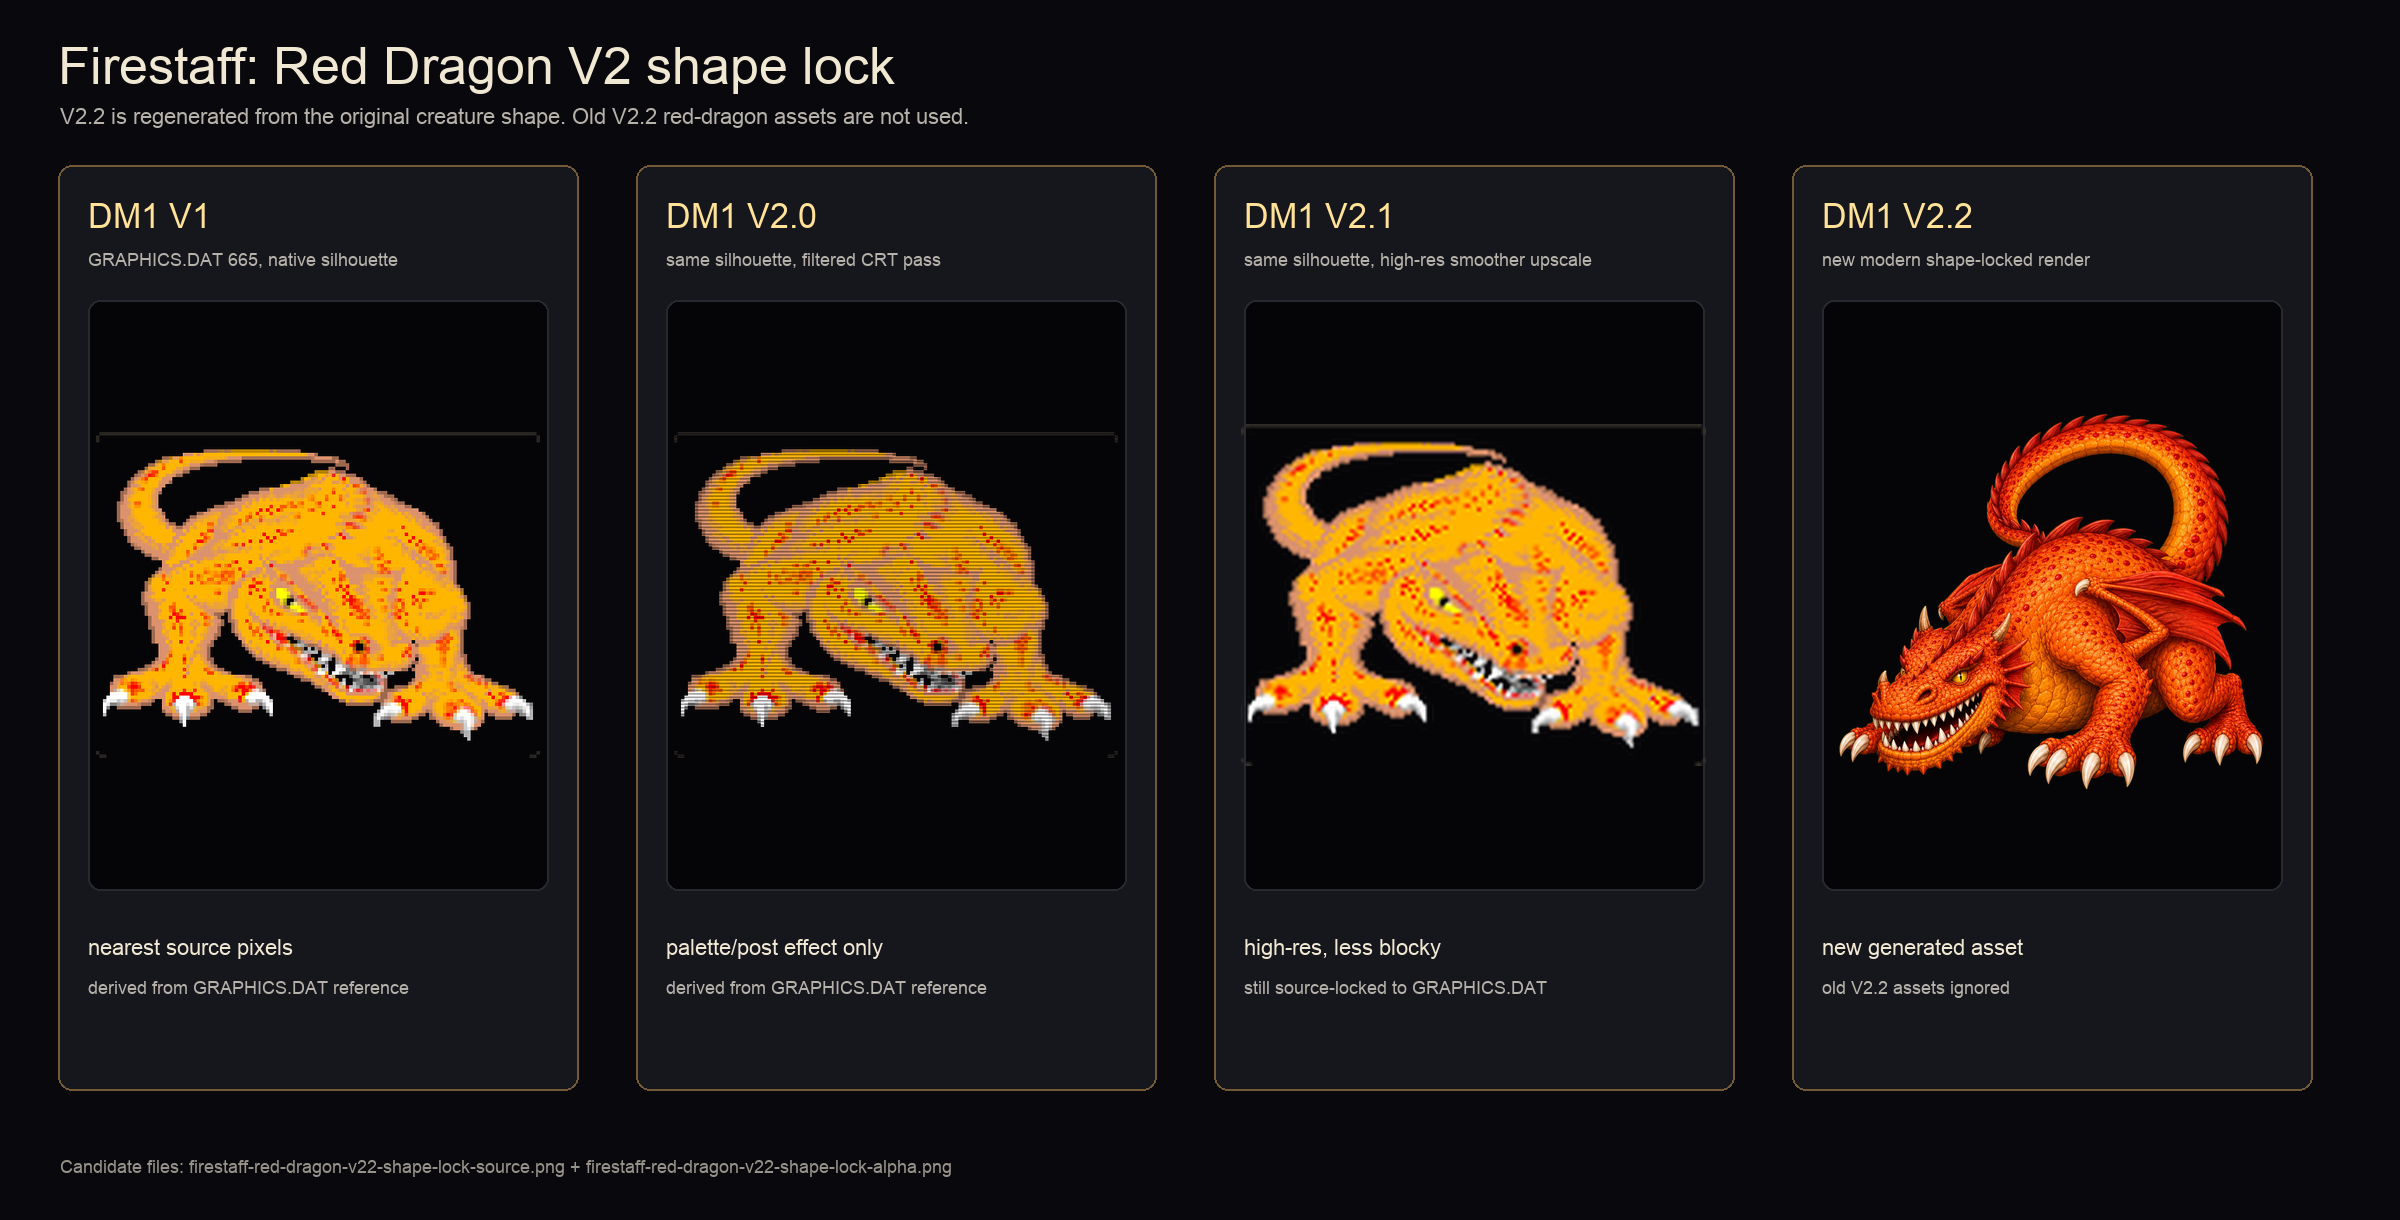
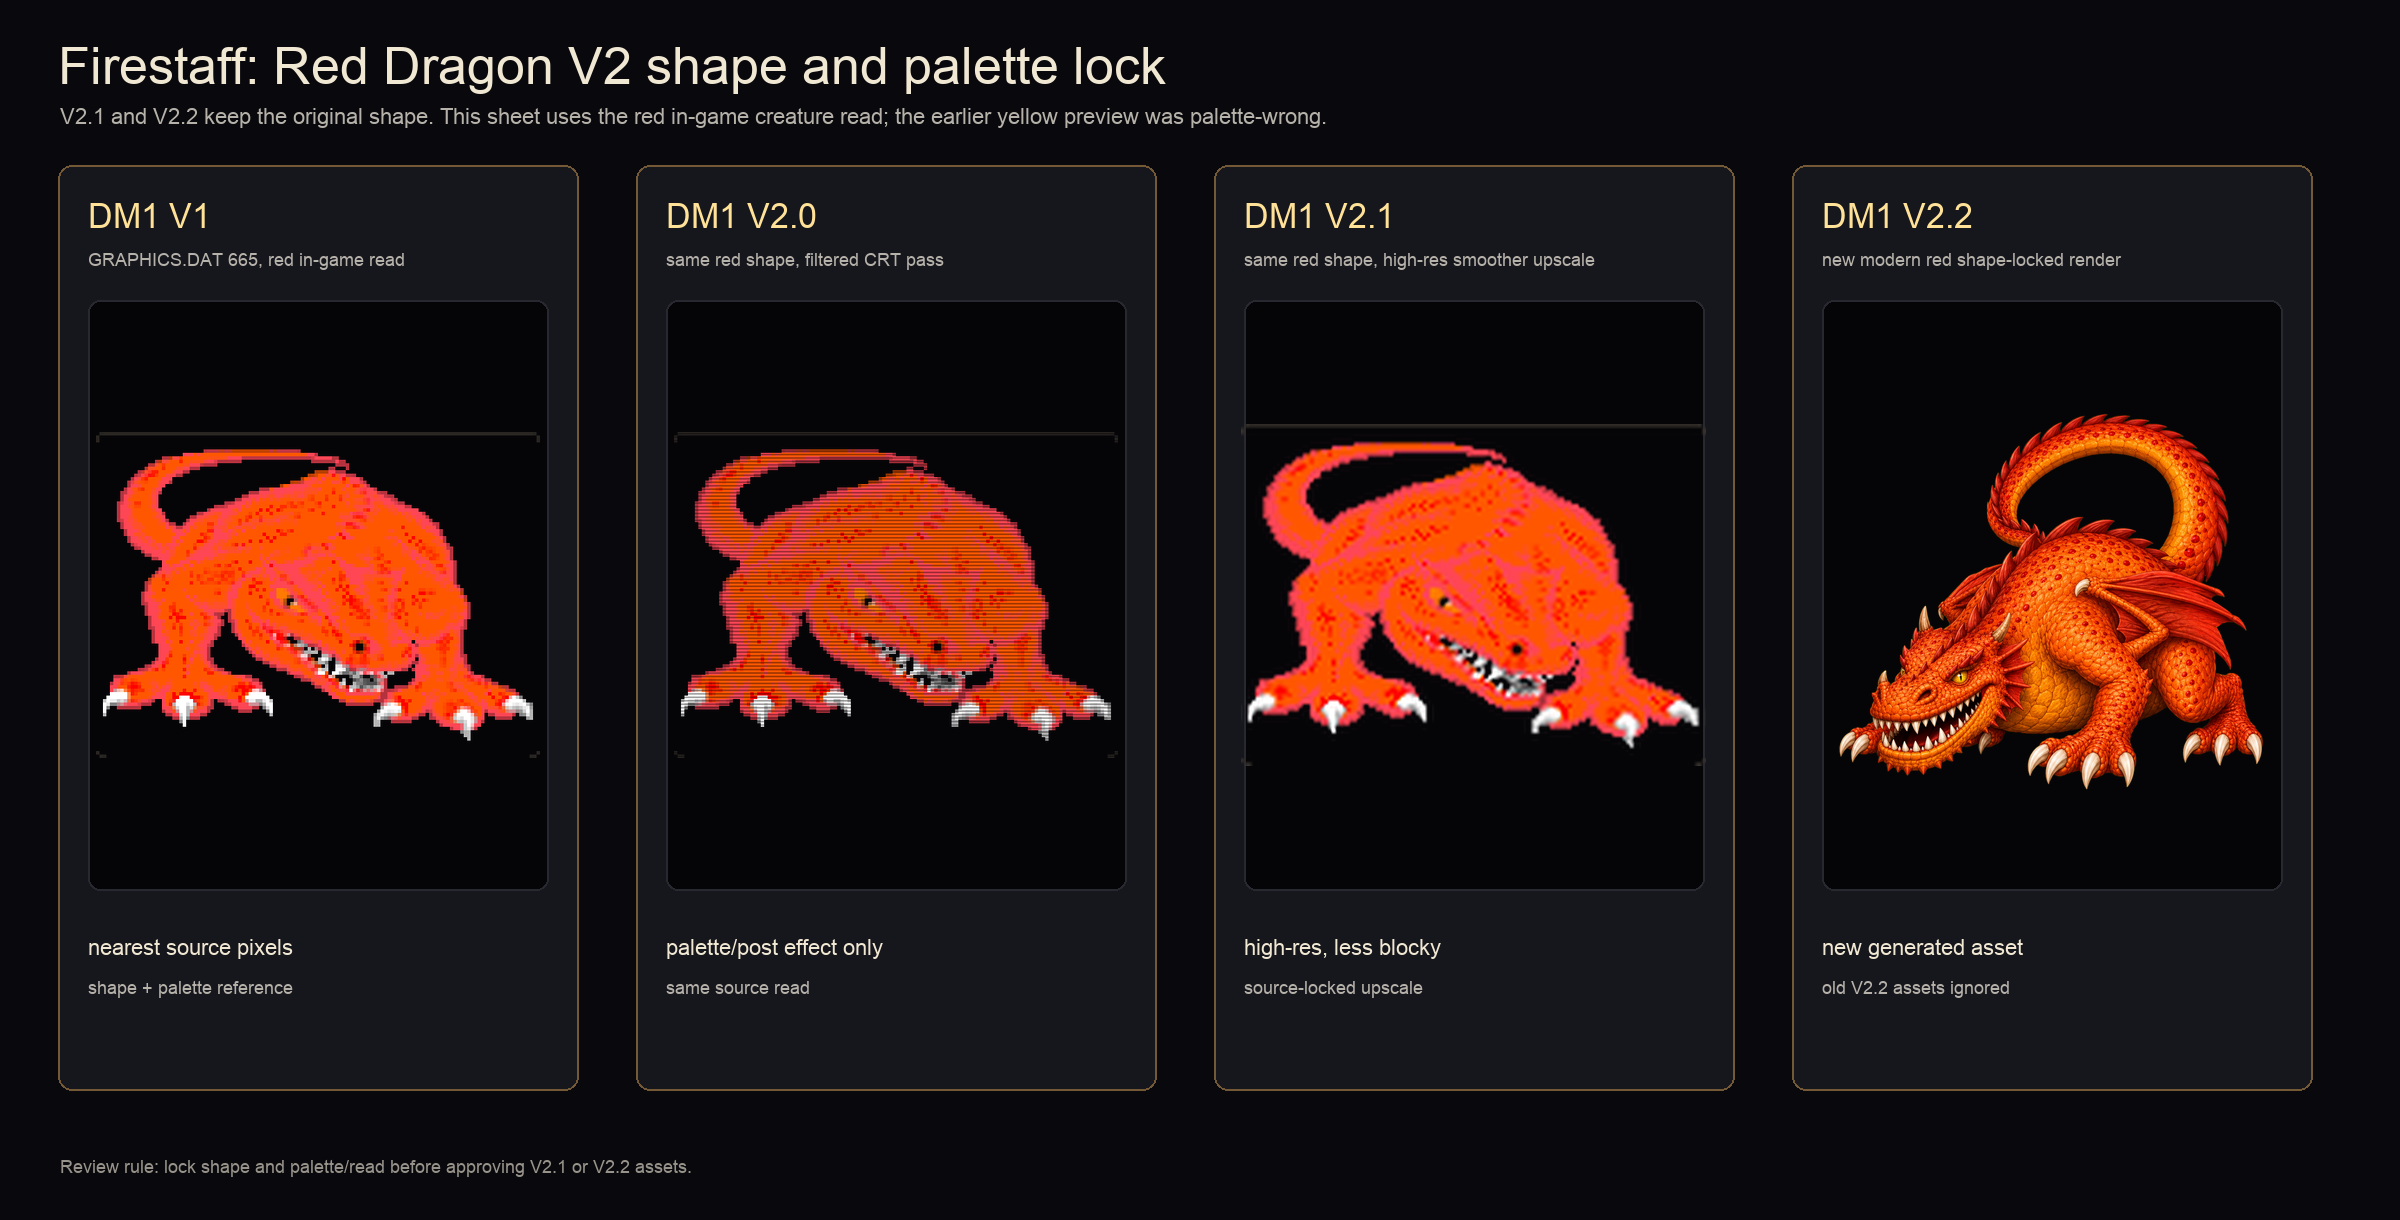
docs: add V2 asset palette lock

diff --git a/assets-v2/creatures/wave1/CREATURE_PIPELINE.md b/assets-v2/creatures/wave1/CREATURE_PIPELINE.md
@@ -13,6 +13,7 @@ It exists to let creature-family experiments move forward without touching the a
    - V2.1 should be a high-resolution, less-pixelated upscale of that source shape.
    - V2.2 should be a modern high-resolution redraw of that same source shape, not a replacement design.
    - Do not reuse old V2.2 creature assets when they drift from the source shape. Generate or paint a new candidate instead.
+   - Lock the in-game palette/read at the same time as the shape. If a preview renders a red creature yellow because of palette mismatch, the preview is not acceptable source evidence.
 3. Isolate the subject with either:
    - a supplied manual mask, or
    - the generator's heuristic background-removal pass.
@@ -86,9 +87,9 @@ That means creature polish can increase resolution and paint fidelity, but it mu
 - restrained painted surfaces
 - limited color separation
 - some hard-edge chunkiness instead of glossy fantasy-poster rendering
-- side-by-side shape parity across V1, V2.0, V2.1, and V2.2 before approval
+- side-by-side shape and palette/read parity across V1, V2.0, V2.1, and V2.2 before approval
 
-The red-dragon shape-lock candidate under `red-dragon-family/candidates/20260528-shape-lock/` is the current example pattern: the V2.2 pass was regenerated from the original crouched red-dragon silhouette, while V2.1 stays a smoother high-resolution source-preserving upscale.
+The red-dragon shape-lock candidate under `red-dragon-family/candidates/20260528-shape-lock/` is the current example pattern: the V2.2 pass was regenerated from the original crouched red-dragon silhouette, while V2.1 stays a smoother high-resolution source-preserving upscale. The comparison sheet also documents the palette correction: the red dragon must read red in-game, so the earlier yellow-looking preview was rejected as palette-wrong evidence.
 
 ## Boundaries
 

diff --git a/docs/v2/V2_ALL_ASSETS_STYLE_GUIDE.md b/docs/v2/V2_ALL_ASSETS_STYLE_GUIDE.md
@@ -41,6 +41,11 @@ It does not change active V1 parity work.
    - Do not reuse old V2.2 assets that drift away from the source form. Treat them as rejected references, not production inputs.
    - Review V1, V2.0, V2.1, and V2.2 side by side at the same perceived scale before approving an asset.
 
+8. **Palette/read lock**
+   - The source comparison must use the correct in-game palette/read for the selected game and asset. A shape-correct preview with wrong colors is still not approval evidence.
+   - If an extraction, viewer, or mock comparison displays the palette incorrectly, label it as invalid or regenerate the comparison before using it as an art brief.
+   - V2.1 and V2.2 may increase color fidelity, but they must preserve the gameplay color identity: a red creature must still read red, a poison/acid effect must still read poison/acid, and UI state colors must keep their original role.
+
 ## Cross-class material language
 
 - Stone, bronze, wood, iron, bone, parchment, cloth, slime, and rune-light should read as tactile but not glossy.

diff --git a/assets-v2/ALL_ASSETS_V2_COVERAGE.md b/assets-v2/ALL_ASSETS_V2_COVERAGE.md
@@ -27,6 +27,7 @@ All graphical asset classes now use the same approval pattern:
 - lock the original/source silhouette, pose, crop role, scale, and gameplay read first
 - make V2.1 a high-resolution source-preserving upscale that is visibly less pixelated than V1/V2.0
 - make V2.2 a high-resolution modern redraw of the same form, not a different design
+- preserve the in-game palette/read for the asset's role; wrong-palette previews are not approval evidence
 - reject old V2.2 assets that do not match the source form
 - approve assets only after a side-by-side V1 / V2.0 / V2.1 / V2.2 comparison at matching perceived scale
 